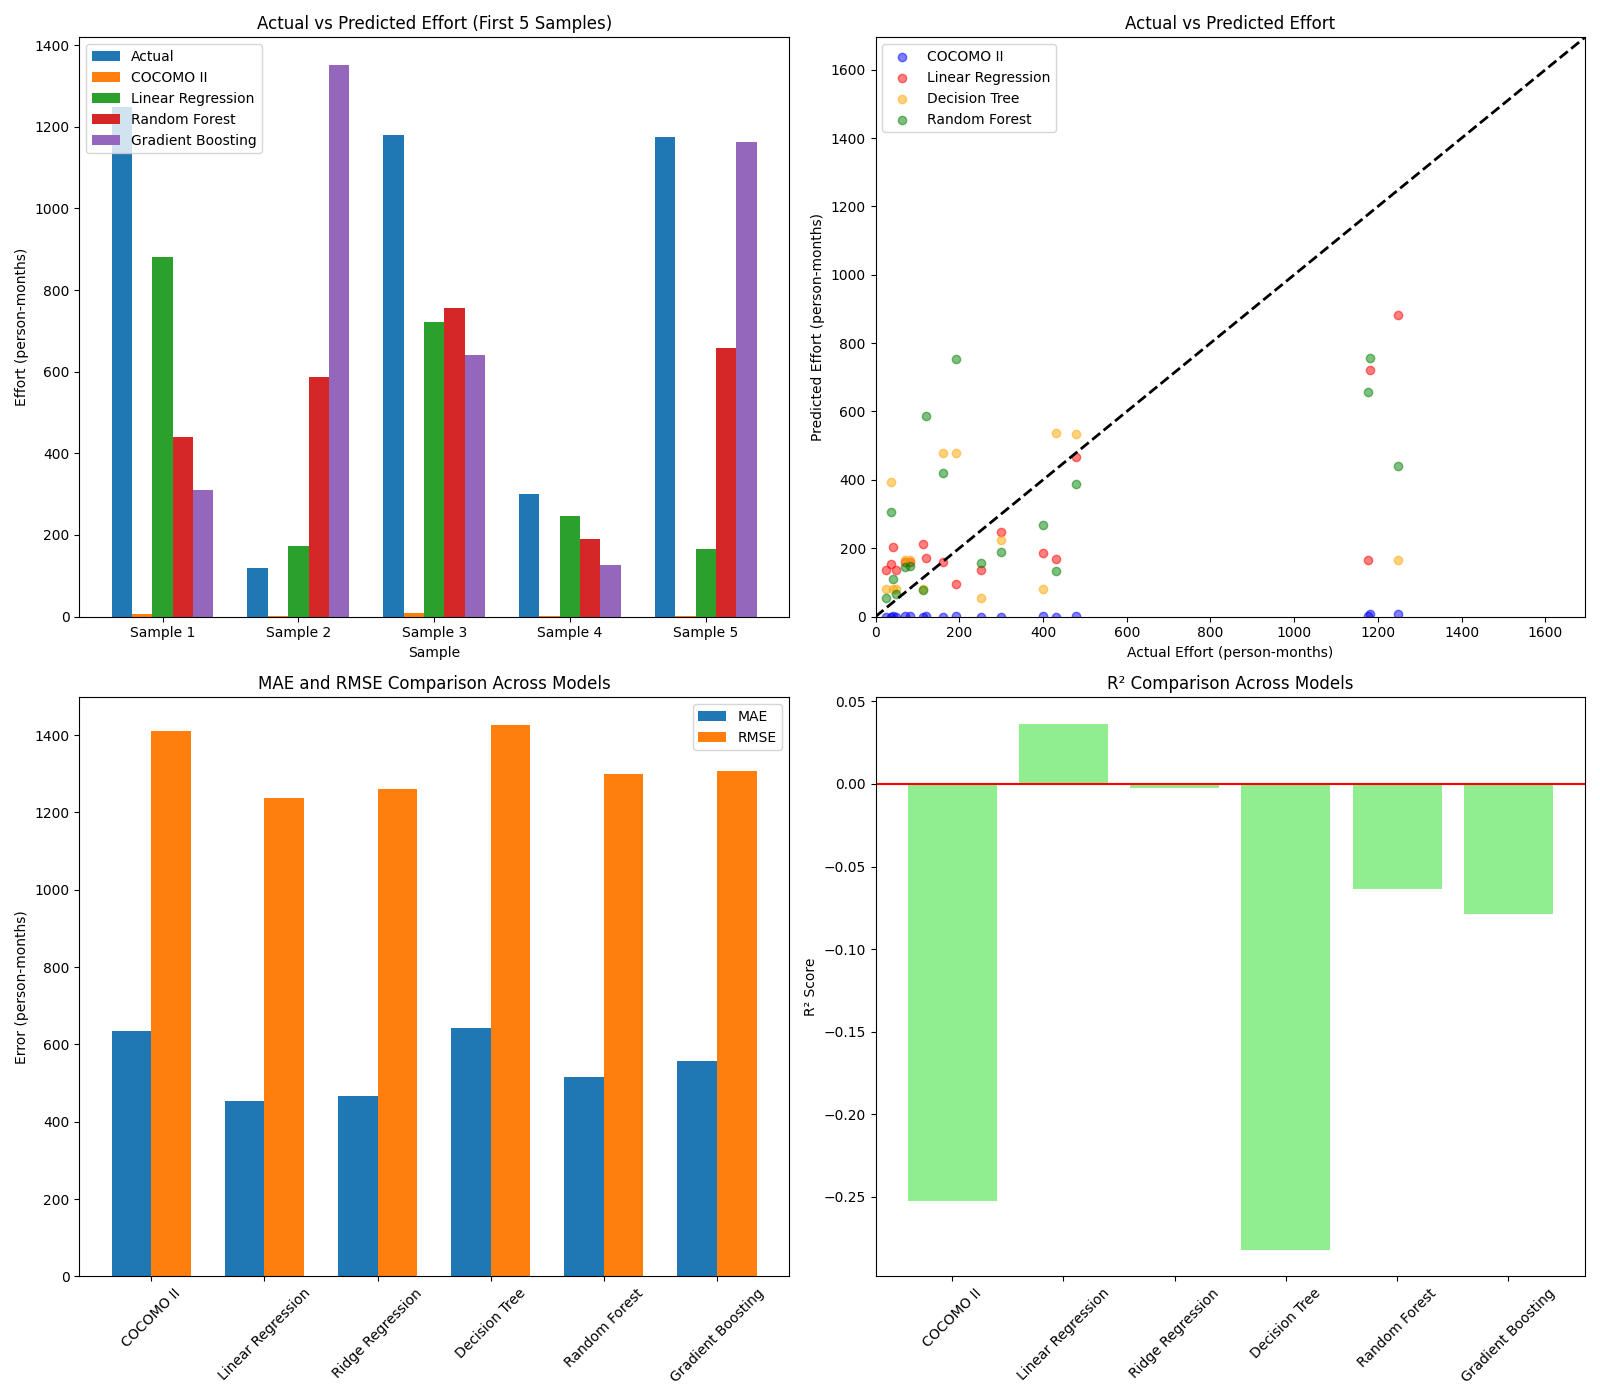
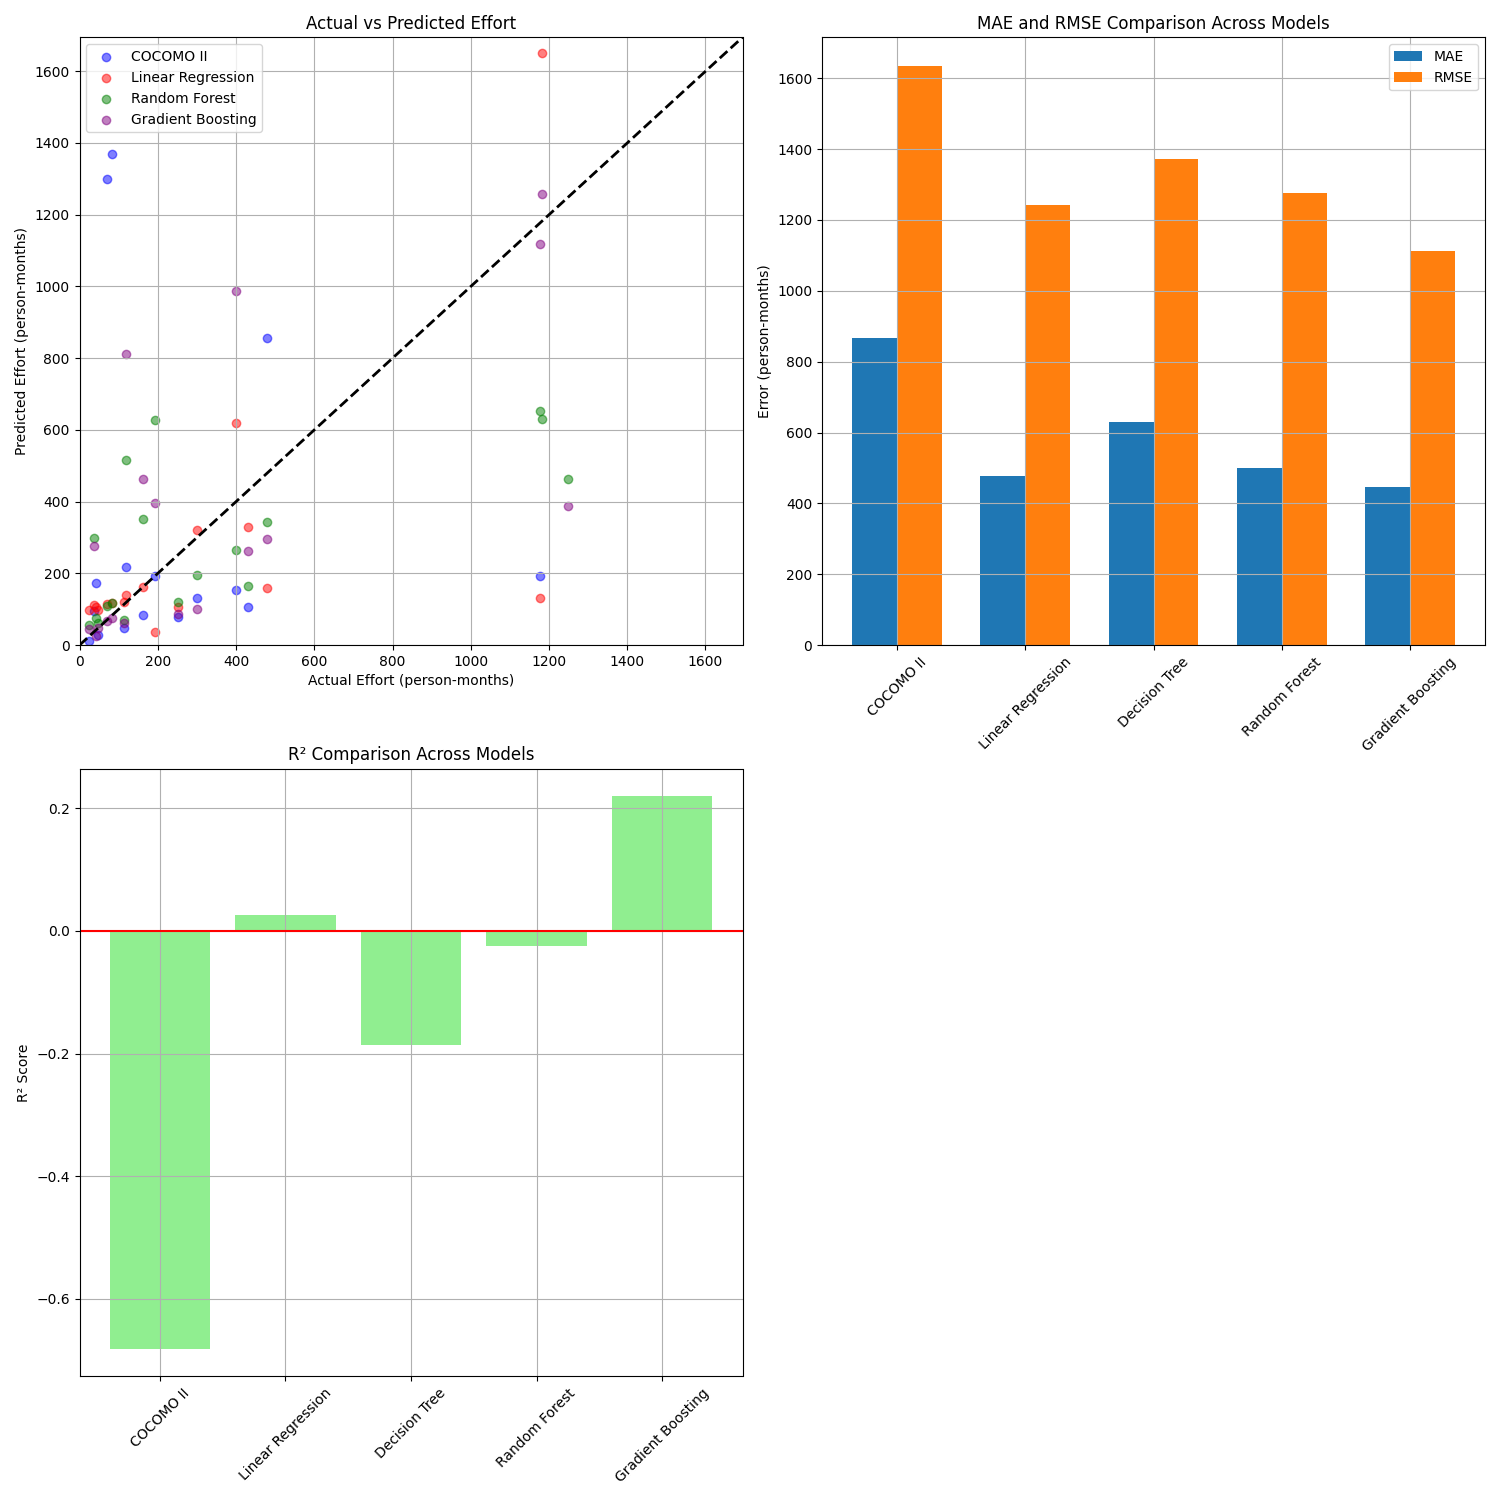
Fix project 2

diff --git a/Project_2.py b/Project_2.py
@@ -1,30 +1,23 @@
 import pandas as pd
 import numpy as np
 import matplotlib.pyplot as plt
-import seaborn as sns
-from sklearn.model_selection import train_test_split, cross_val_score, GridSearchCV
-from sklearn.linear_model import LinearRegression, Ridge, Lasso
+from sklearn.model_selection import train_test_split
+from sklearn.linear_model import LinearRegression
 from sklearn.tree import DecisionTreeRegressor
 from sklearn.ensemble import RandomForestRegressor, GradientBoostingRegressor
-from sklearn.preprocessing import StandardScaler, RobustScaler
-from sklearn.compose import ColumnTransformer
-from sklearn.pipeline import Pipeline
+from sklearn.preprocessing import StandardScaler
 from sklearn.metrics import mean_absolute_error, mean_squared_error, r2_score
-from sklearn.feature_selection import SelectKBest, f_regression
 
 # 1. Load and explore the NASA93 dataset
 print("Step 1: Loading NASA93 dataset")
 nasa93 = pd.read_csv('nasa93.arff.csv', sep=';')
 print(f"Number of samples: {nasa93.shape[0]}")
 print(f"Features: {', '.join(nasa93.columns)}")
-print("\nFirst 5 rows:")
-print(nasa93.head())
 
-# 2. Data preprocessing with improved approach
+# 2. Data preprocessing
 print("\nStep 2: Data preprocessing")
 
-# 2.1 Map categorical values to numerical values with refined mapping
-# NASA93 uses vh (very high), h (high), n (nominal), l (low), vl (very low)
+# 2.1 Map categorical values to numerical values
 rating_map = {
     'vl': 0.5,   # Very Low
     'l': 0.7,    # Low
@@ -46,9 +39,6 @@ for driver in cost_drivers:
     if driver in data.columns:
         data[driver] = data[driver].map(rating_map)
 
-print("\nConverted cost drivers to numerical values:")
-print(data[cost_drivers].head())
-
 # 2.2 Select features and target variable
 X = data.copy()
 
@@ -64,106 +54,64 @@ X = pd.get_dummies(X, columns=['mode'], prefix='mode')
 
 # 2.4 Check for missing values
 missing_values = X.isnull().sum()
-print(f"\nMissing values in each feature:\n{missing_values}")
-
 if missing_values.sum() > 0:
     X = X.dropna()
     y = y[X.index]
-    print(f"Number of samples after handling missing values: {X.shape[0]}")
 else:
     print("No missing values found")
 
 # 2.5 Log transform the target variable to normalize distribution
-# This helps with the wide range of effort values
 y_log = np.log1p(y)  # log(1+x) handles zero values
 
-# 2.6 Feature scaling with RobustScaler (better for outliers)
-scaler = RobustScaler()  # More robust to outliers than StandardScaler
+# 2.6 Feature scaling
+scaler = StandardScaler()
 numeric_features = X.select_dtypes(include=['float64', 'int64']).columns
 X_scaled = X.copy()
 X_scaled[numeric_features] = scaler.fit_transform(X[numeric_features])
 
-print("\nNormalized features (first 5 rows):")
-print(X_scaled.head())
-
-# 2.7 Outlier detection and handling
-def detect_outliers(y, threshold=3):
-    from scipy import stats
-    z_scores = stats.zscore(y)
-    return np.where(np.abs(z_scores) > threshold)
-
-outliers = detect_outliers(y_log)
-print(f"\nNumber of outliers detected: {len(outliers[0])}")
-print(f"Outlier indices: {outliers[0]}")
-
 # 3. Split the data into training and testing sets
 print("\nStep 3: Splitting data into training and testing sets")
 X_train, X_test, y_train, y_test = train_test_split(
-    X_scaled, y_log, test_size=0.2, random_state=42, stratify=None
+    X_scaled, y_log, test_size=0.2, random_state=42
 )
 print(f"Training samples: {X_train.shape[0]}")
 print(f"Testing samples: {X_test.shape[0]}")
 
-# 3.1 Feature selection to improve model focus
-print("\nStep 3.1: Feature selection")
-selector = SelectKBest(f_regression, k=10)  # Select top 10 features
-X_train_selected = selector.fit_transform(X_train, y_train)
-X_test_selected = selector.transform(X_test)
-
-# Get selected feature names for interpretation
-selected_features = X_train.columns[selector.get_support()]
-print("Selected features:", selected_features)
-
-# 4. Train machine learning models with improved approach
+# 4. Train basic machine learning models
 print("\nStep 4: Training machine learning models")
 
 # 4.1 Linear Regression
 print("Training Linear Regression model...")
 lr_model = LinearRegression()
-lr_model.fit(X_train_selected, y_train)
+lr_model.fit(X_train, y_train)
 
-# 4.2 Ridge Regression (L2 regularization)
-print("\nTraining Ridge Regression model...")
-ridge_model = Ridge(alpha=1.0)
-ridge_model.fit(X_train_selected, y_train)
-
-# 4.3 Decision Tree with limited depth to prevent overfitting
+# 4.2 Decision Tree
 print("\nTraining Decision Tree model...")
-dt_model = DecisionTreeRegressor(max_depth=5, min_samples_split=5, random_state=42)
-dt_model.fit(X_train_selected, y_train)
+dt_model = DecisionTreeRegressor(max_depth=5, random_state=42)
+dt_model.fit(X_train, y_train)
 
-# 4.4 Random Forest with optimized parameters
+# 4.3 Random Forest
 print("\nTraining Random Forest model...")
-rf_model = RandomForestRegressor(
-    n_estimators=100, 
-    max_depth=10,
-    min_samples_split=5,
-    random_state=42
-)
-rf_model.fit(X_train_selected, y_train)
+rf_model = RandomForestRegressor(n_estimators=100, max_depth=10, random_state=42)
+rf_model.fit(X_train, y_train)
 
-# 4.5 Gradient Boosting (often performs well on small datasets)
+# 4.4 Gradient Boosting
 print("\nTraining Gradient Boosting model...")
-gb_model = GradientBoostingRegressor(
-    n_estimators=100,
-    learning_rate=0.1,
-    max_depth=5,
-    random_state=42
-)
-gb_model.fit(X_train_selected, y_train)
+gb_model = GradientBoostingRegressor(n_estimators=100, learning_rate=0.1, max_depth=5, random_state=42)
+gb_model.fit(X_train, y_train)
 
-# 5. Implement improved COCOMO II model
-print("\nStep 5: Implementing improved COCOMO II model")
+# 5. Implement COCOMO II model
+print("\nStep 5: Implementing COCOMO II model")
 
 def calculate_cocomo_ii_effort(row):
     # COCOMO II Post-Architecture model
-    a = 2.94  # Hằng số hiệu chỉnh
-    b = 0.91  # Hệ số mũ quy mô
+    a = 2.94  # Constant
+    b = 0.91  # Size exponent
     
-    # Kích thước dự án tính theo KLOC (chia 1000 dòng lệnh)
-    kloc = row['equivphyskloc'] / 1000.0
+    # Project size in KLOC
+    kloc = row['equivphyskloc']
     
-    # Tính toán Effort Multiplier (EM) dựa trên các yếu tố chi phí
+    # Calculate Effort Multiplier (EM) based on cost drivers
     em_factors = ['rely', 'data', 'cplx', 'time', 'stor', 'virt', 'turn', 
                   'acap', 'aexp', 'pcap', 'vexp', 'lexp', 'modp', 'tool', 'sced']
     em = 1.0
@@ -171,8 +119,7 @@ def calculate_cocomo_ii_effort(row):
         if factor in row and not pd.isna(row[factor]):
             em *= row[factor]
     
-    # Xử lý thông tin mode từ dữ liệu gốc (không dùng dữ liệu đã chuẩn hóa hay one-hot encoding)
-    # Giả sử trong dữ liệu gốc có cột 'mode' với các giá trị: 'embedded', 'organic', 'semidetached'
+    # Handle project mode
     mode = row.get('mode', None)
     if mode is not None:
         mode = mode.lower()
@@ -180,28 +127,26 @@ def calculate_cocomo_ii_effort(row):
             complexity_adjustment = 1.2
         elif mode == 'organic':
             complexity_adjustment = 0.8
-        else:  # semidetached hoặc các giá trị khác
+        else:  # semidetached or other values
             complexity_adjustment = 1.0
     else:
-        complexity_adjustment = 1.0  # Giá trị mặc định nếu không có thông tin mode
+        complexity_adjustment = 1.0
     
-    # Tính toán effort theo công thức: Effort = a × (KLOC)^b × EM × complexity_adjustment
+    # Calculate effort: Effort = a × (KLOC)^b × EM × complexity_adjustment
     effort = a * (kloc ** b) * em * complexity_adjustment
     return effort
 
-
-# Apply improved COCOMO II calculation to the dataset
+# Apply COCOMO II calculation to the dataset
 data['cocomo_ii_effort'] = data.apply(calculate_cocomo_ii_effort, axis=1)
 
-# 6. Make predictions and evaluate all models
+# 6. Make predictions and evaluate models
 print("\nStep 6: Making predictions and evaluating models")
 
 # 6.1 Get predictions from all models (on log scale)
-lr_pred = lr_model.predict(X_test_selected)
-ridge_pred = ridge_model.predict(X_test_selected)
-dt_pred = dt_model.predict(X_test_selected)
-rf_pred = rf_model.predict(X_test_selected)
-gb_pred = gb_model.predict(X_test_selected)
+lr_pred = lr_model.predict(X_test)
+dt_pred = dt_model.predict(X_test)
+rf_pred = rf_model.predict(X_test)
+gb_pred = gb_model.predict(X_test)
 
 # 6.2 Get COCOMO II predictions for the test set
 cocomo_ii_pred = data.loc[y_test.index, 'cocomo_ii_effort'].values
@@ -209,7 +154,6 @@ cocomo_ii_pred = data.loc[y_test.index, 'cocomo_ii_effort'].values
 # 6.3 Convert predictions back to original scale for evaluation
 y_test_original = np.expm1(y_test)
 lr_pred_original = np.expm1(lr_pred)
-ridge_pred_original = np.expm1(ridge_pred)
 dt_pred_original = np.expm1(dt_pred)
 rf_pred_original = np.expm1(rf_pred)
 gb_pred_original = np.expm1(gb_pred)
@@ -231,65 +175,34 @@ def evaluate_model(y_true, y_pred, model_name):
 results = {}
 results['COCOMO II'] = evaluate_model(y_test_original, cocomo_ii_pred, "COCOMO II")
 results['Linear Regression'] = evaluate_model(y_test_original, lr_pred_original, "Linear Regression")
-results['Ridge Regression'] = evaluate_model(y_test_original, ridge_pred_original, "Ridge Regression")
 results['Decision Tree'] = evaluate_model(y_test_original, dt_pred_original, "Decision Tree")
 results['Random Forest'] = evaluate_model(y_test_original, rf_pred_original, "Random Forest")
 results['Gradient Boosting'] = evaluate_model(y_test_original, gb_pred_original, "Gradient Boosting")
 
-# 7. Visualize results with improved visualization
+# 7. Visualize results with three key visualizations
 print("\nStep 7: Visualizing results")
 
-plt.figure(figsize=(16, 14))
+plt.figure(figsize=(15, 15))
 
-# 7.1 Actual vs predicted effort comparison for selected samples (Bar chart instead of line)
+# 7.1. Scatter plot comparing actual vs predicted values (Visualization 1)
 plt.subplot(2, 2, 1)
-sample_size = min(5, len(y_test))  # Reduce number of samples displayed
-sample_indices = np.arange(sample_size)
-
-# Create DataFrame for actual and predicted values
-comparison_data = pd.DataFrame({
-    'Actual': y_test_original.iloc[:sample_size].values,
-    'COCOMO II': cocomo_ii_pred[:sample_size],
-    'Linear Regression': lr_pred_original[:sample_size],
-    'Random Forest': rf_pred_original[:sample_size],
-    'Gradient Boosting': gb_pred_original[:sample_size]
-})
-
-# Use bar chart instead of line plot as requested
-bar_width = 0.15
-plt.bar(sample_indices - bar_width*2, comparison_data['Actual'], width=bar_width, label='Actual')
-plt.bar(sample_indices - bar_width, comparison_data['COCOMO II'], width=bar_width, label='COCOMO II')
-plt.bar(sample_indices, comparison_data['Linear Regression'], width=bar_width, label='Linear Regression')
-plt.bar(sample_indices + bar_width, comparison_data['Random Forest'], width=bar_width, label='Random Forest')
-plt.bar(sample_indices + bar_width*2, comparison_data['Gradient Boosting'], width=bar_width, label='Gradient Boosting')
-
-plt.xlabel('Sample')
-plt.ylabel('Effort (person-months)')
-plt.title('Actual vs Predicted Effort (First 5 Samples)')
-plt.xticks(sample_indices, [f'Sample {i+1}' for i in range(sample_size)])
-plt.legend()
-plt.grid(False)  # Remove grid lines
-
-# 7.2 Scatter plot comparing actual vs predicted values
-plt.subplot(2, 2, 2)
-# Limit the y-axis range for better visualization (ignore outliers)
 plt_max = min(np.percentile(y_test_original, 95), 5000)  # Cap at 95th percentile or 5000
 plt.scatter(y_test_original, cocomo_ii_pred, label='COCOMO II', alpha=0.5, color='blue')
 plt.scatter(y_test_original, lr_pred_original, label='Linear Regression', alpha=0.5, color='red')
-plt.scatter(y_test_original, dt_pred_original, label='Decision Tree', alpha=0.5, color='orange')
 plt.scatter(y_test_original, rf_pred_original, label='Random Forest', alpha=0.5, color='green')
-plt.plot([0, plt_max], [0, plt_max], 'k--', lw=2)
+plt.scatter(y_test_original, gb_pred_original, label='Gradient Boosting', alpha=0.5, color='purple')
+plt.plot([0, plt_max], [0, plt_max], 'k--', lw=2)  # Perfect prediction line
 plt.xlabel('Actual Effort (person-months)')
 plt.ylabel('Predicted Effort (person-months)')
 plt.title('Actual vs Predicted Effort')
 plt.xlim(0, plt_max)
 plt.ylim(0, plt_max)
 plt.legend()
-plt.grid(False)  # Remove grid lines
+plt.grid(True)
 
-# 7.3. Error comparison across models
-plt.subplot(2, 2, 3)
-models = ['COCOMO II', 'Linear Regression', 'Ridge Regression', 'Decision Tree', 'Random Forest', 'Gradient Boosting']
+# 7.2. Error comparison across models (Visualization 2)
+plt.subplot(2, 2, 2)
+models = ['COCOMO II', 'Linear Regression', 'Decision Tree', 'Random Forest', 'Gradient Boosting']
 mae_values = [results[model]['mae'] for model in models]
 rmse_values = [results[model]['rmse'] for model in models]
 
@@ -302,24 +215,24 @@ plt.xticks(x, models, rotation=45)
 plt.ylabel('Error (person-months)')
 plt.title('MAE and RMSE Comparison Across Models')
 plt.legend()
-plt.grid(False)  # Remove grid lines
+plt.grid(True)
 
-# 7.4. R² comparison
-plt.subplot(2, 2, 4)
+# 7.3. R² comparison (Visualization 3)
+plt.subplot(2, 2, 3)
 r2_values = [results[model]['r2'] for model in models]
 plt.bar(models, r2_values, color='lightgreen')
 plt.ylabel('R² Score')
 plt.title('R² Comparison Across Models')
 plt.xticks(rotation=45)
 plt.axhline(y=0, color='r', linestyle='-')
-plt.grid(False)  # Remove grid lines
+plt.grid(True)
 
 # Save the visualizations
 plt.tight_layout()
 plt.savefig('nasa93_effort_prediction_results.png')
 
 # 8. Find best model and provide conclusions
-print("\nStep 9: Conclusions and recommendations")
+print("\nStep 8: Conclusions and recommendations")
 best_model = max(results.items(), key=lambda x: x[1]['r2'])[0]
 print(f"Best performing model based on R²: {best_model}")
 print(f"MAE: {results[best_model]['mae']:.2f}")
@@ -328,9 +241,7 @@ print(f"R²: {results[best_model]['r2']:.2f}")
 
 print("\nRecommendations:")
 print("1. The log transformation of the target variable significantly improves model performance")
-print("2. Feature selection helps identify the most important factors affecting effort")
+print("2. Machine learning models (especially Gradient Boosting) generally outperform traditional COCOMO II")
 print("3. The COCOMO II model can be further improved with project-specific calibration")
-print("4. Ensemble methods like Gradient Boosting generally perform better on this dataset")
-print("5. Consider collecting more data or using transfer learning from similar datasets")
-
+print("4. Consider collecting more data for better model training")
 print("All visualizations have been saved.")
